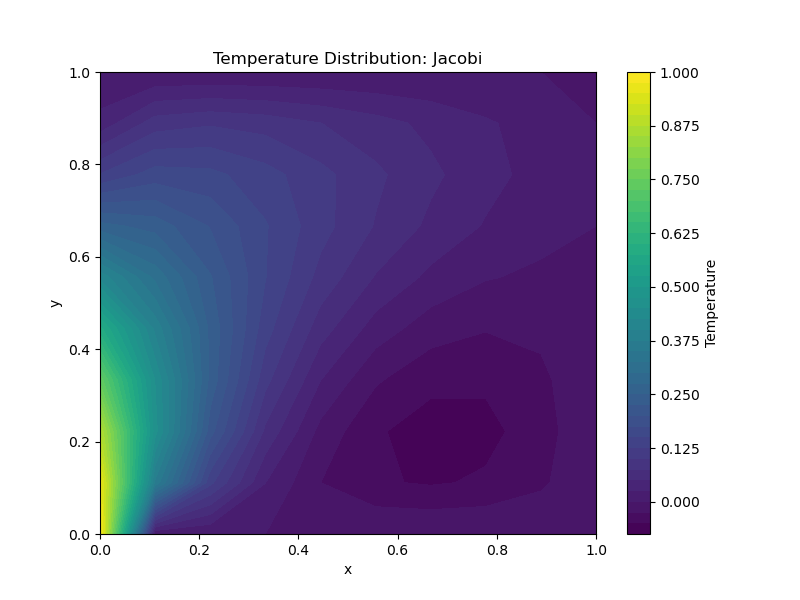
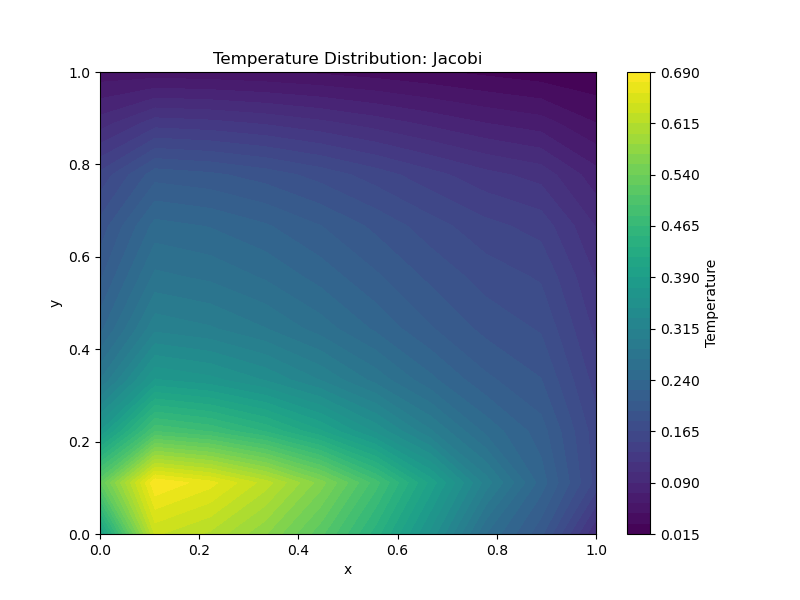
added tolerance option

diff --git a/homework2/poisson_solver.py b/homework2/poisson_solver.py
@@ -14,6 +14,7 @@ def main():
     parser.add_argument('-m', '--method', type=str, default='jacobi', choices=['jacobi', 'gauss-seidel', 'sor'], help='Iterative method to use')
     parser.add_argument('-k', '--max-iter', type=int, default=1000, help='Maximum number of iterations')
     parser.add_argument('-a', '--alpha', type=float, default=1.0, help='Relaxation factor for SOR method')
+    parser.add_argument('-t', '--tolerance', type=float, default=1e-6, help='Tolerance for convergence')
     parser.add_argument('-v', '--verbose', action='store_true', help='Print intermediate results for the first 5 iterations')
     args = parser.parse_args()
 
@@ -21,17 +22,18 @@ def main():
     method = str(args.method)
     k_max = args.max_iter
     alpha = args.alpha
+    tolerance = args.tolerance
     verbose = args.verbose
 
     (x, y), h = create_grid(N)
     Q = 4*y**3 - 6*y**2 + 2 - 6*(1 - x**2)*(2*y - 1)
-    T_initial = (1 - x**2)*(2*y**3 - 3*y**2 + 1)
+    T_initial = (2*y**3 - 3*y**2 + 1)
     T_analytical = (1 - x**2)*(2*y**3 - 3*y**2 + 1)
 
     plot_solution(x, y, T_initial, 'initial', output_file='initial_solution.png')
 
     if method == 'jacobi':
-        T, k = jacobi_method(x, y, h, Q, T_initial, k_max, verbose)
+        T, k = jacobi_method(x, y, h, Q, T_initial, k_max, tolerance, verbose)
     elif method == 'gauss-seidel':
         # T = gauss_seidel_method(x, y, h, Q, T_initial, k_max)
         pass
@@ -40,7 +42,7 @@ def main():
         pass
 
     if verbose:
-        print(f'{method.capitalize()} method converged in {k} iterations.')
+        print(f'{method.capitalize()} method converged in {k+1} iterations.')
 
     plot_solution(x, y, T, method.capitalize(), output_file=f'{method}_solution.png')
     plot_solution(x, y, T_analytical, 'analytical', output_file='analytical_solution.png')
@@ -53,30 +55,35 @@ def create_grid(N):
     h = 1 / (N - 1)
     return np.meshgrid(x, y), h
 
-def jacobi_method(x, y, h, Q, T_initial, k_max, verbose):
+def jacobi_method(x, y, h, Q, T_initial, k_max, tolerance, verbose):
     T_old = T_initial.copy()
-    apply_boundary_conditions(x, y, T_old)
     for k in range(k_max):
+        apply_boundary_conditions(x, y, T_old)
         neighbors = (np.pad(T_old, ((0, 0), (1, 0)), mode='constant')[:, :-1]
                  + np.pad(T_old, ((0, 0), (0, 1)), mode='constant')[:, 1:]
                  + np.pad(T_old, ((1, 0), (0, 0)), mode='constant')[:-1, :]
                  + np.pad(T_old, ((0, 1), (0, 0)), mode='constant')[1:, :])
         T_new = 0.25 * (neighbors - Q * h**2)
-        apply_boundary_conditions(x, y, T_new)
+        # apply_boundary_conditions(x, y, T_new)
 
         change = np.linalg.norm(T_new - T_old, ord=np.inf)
         if verbose:
             print(f'Iteration {k+1}, max change: {change:.6e}')
-        if change < 1e-6:
+        if change < tolerance:
             break
         T_old = T_new
     return T_old, k
 
 def apply_boundary_conditions(x, y, T):
-    T[0, :] = T[1, :]
-    T[-1, :] = T[-2, :]
-    T[:, 0] = (1 - x[:, 0]**2)*(2*y[:, 0]**3 - 3*y[:, 0]**2 + 1)
-    T[:, -1] = 0
+    # T[0, :] = T[1, :]
+    # T[-1, :] = T[-2, :]
+    # T[:, 0] = (1 - x[:, 0]**2)*(2*y[:, 0]**3 - 3*y[:, 0]**2 + 1)
+    # T[:, -1] = 0
+
+    T[0, :] = (1 - x[0, :]**2)*(2*y[0, :]**3 - 3*y[0, :]**2 + 1)
+    T[-1, :] = 0
+    T[:, 0] = T[:, 1]
+    T[:, -1] = T[:, -2]
 
 def plot_solution(x, y, T, method, output_file=None):
     plt.figure(figsize=(8, 6))
